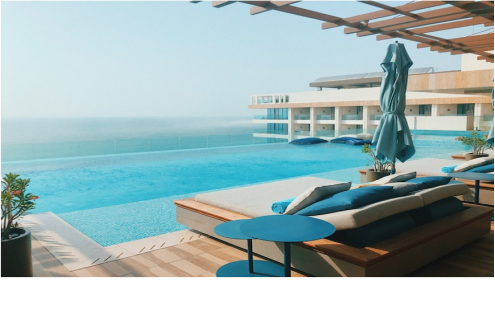
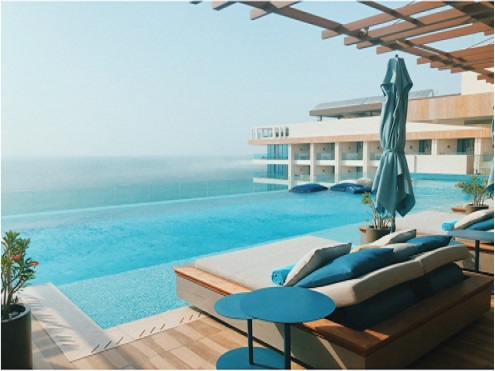
adjust pics

diff --git a/resources/views/index.blade.php b/resources/views/index.blade.php
@@ -86,7 +86,7 @@
         </div>
         <div class="carousel-item">
           <!-- <svg class="bd-placeholder-img" width="100%" height="100%" xmlns="http://www.w3.org/2000/svg" aria-hidden="true" preserveAspectRatio="xMidYMid slice" focusable="false"><rect width="100%" height="100%" fill="#777"/></svg> -->
-          <img class="bd-placeholder-img" src="images/index.jpg" alt="Company Logo" width="100%" height="456px">
+          <img class="bd-placeholder-img" src="images/hotel.jpg" alt="Company Logo" width="100%" height="456px">
           <div class="container">
             <div class="carousel-caption" style="text-align: center;" >
               <h1>Find and book your next stay in Asaba.</h1>
@@ -97,7 +97,7 @@
         </div>
         <div class="carousel-item">
           <!-- <svg class="bd-placeholder-img" width="100%" height="100%" xmlns="http://www.w3.org/2000/svg" aria-hidden="true" preserveAspectRatio="xMidYMid slice" focusable="false"><rect width="100%" height="100%" fill="#777"/></svg> -->
-          <img class="bd-placeholder-img" src="images/hotel.jpg" alt="Company Logo" width="100%" height="456px">
+          <img class="bd-placeholder-img" src="images/exquisitehotel.webp" alt="Company Logo" width="100%" height="456px">
           <div class="container">
             <div class="carousel-caption">
               <p>A project by ICT-YEP 2022 Beneficiaries</p>
@@ -237,7 +237,7 @@
         <div class="row p-2">
           <div class="flight col-12 col-lg-4 col-md-6 col-xl-4">
             <div class="box">
-              <img src="images/image (2).jpg" alt="air cargo" width="100%">
+              <img src="images/image (2).jpg" class="img-fluid" alt="air cargo" width="100%">
               <h4>Pinnacle Resorts</h4>
               <p>Okpanam Road, Asaba</p>
             </div>
@@ -246,15 +246,15 @@
   
           <div class="flight col-12 col-lg-4 col-md-6 col-xl-4">
             <div class="box">
-              <img src="images/image (1).jpg" alt="air cargo" width="100%">
-              <h4>Kelvino Hotel & Suits</h4>
+              <img src="images/image (1).jpg" class="img-fluid" alt="air cargo" width="100%">
+              <h4>Kelvino Hotel & Suites</h4>
               <p>Nnebisi Road, Asaba</p>
             </div>
           </div>
   
           <div class="flight col-12 col-lg-4 col-md-6 col-xl-4">
             <div class="box">
-              <img src="images/image (3).jpg" alt="Road Frieght Image" width="100%">
+              <img src="images/image (3).jpg" class="img-fluid" alt="Road Frieght Image" width="100%">
               <h4>NikkiHandsome Villa</h4>
               <p>Okpanam Road, Asaba </p>
             </div>
@@ -264,7 +264,7 @@
         <div class="row"> -->
           <div class="flight col-12 col-lg-4 col-md-6 col-xl-4">
             <div class="box">
-              <img src="images/image (4).jpg" alt="air cargo" width="100%">
+              <img src="images/image (4).jpg" class="img-fluid" alt="air cargo" width="100%">
               <h4>Amaka Paradise Hotel</h4>
               <p>Okpanam Road, Asaba</p>
             </div>
@@ -273,7 +273,7 @@
   
           <div class="flight col-12 col-lg-4 col-md-6 col-xl-4">
             <div class="box">
-              <img src="images/image (5).jpg" alt="air cargo" width="100%">
+              <img src="images/image (5).jpg" class="img-fluid" alt="air cargo" width="100%">
               <h4>Merridien Holiday Resorts</h4>
               <p>Infant Jesus, Asaba</p>
             </div>
@@ -281,8 +281,8 @@
   
           <div class="flight col-12 col-lg-4 col-md-6 col-xl-4">
             <div class="box">
-              <img src="images/image (6).jpg" alt="Road Frieght Image" width="100%">
-              <h4>Rex Hotel & Suits</h4>
+              <img src="images/image (6).jpg" class="img-fluid" alt="Road Frieght Image" width="100%">
+              <h4>Rex Hotel & Suites</h4>
               <p>Infant Jesus, Asaba</p>
             </div>
           </div>     
